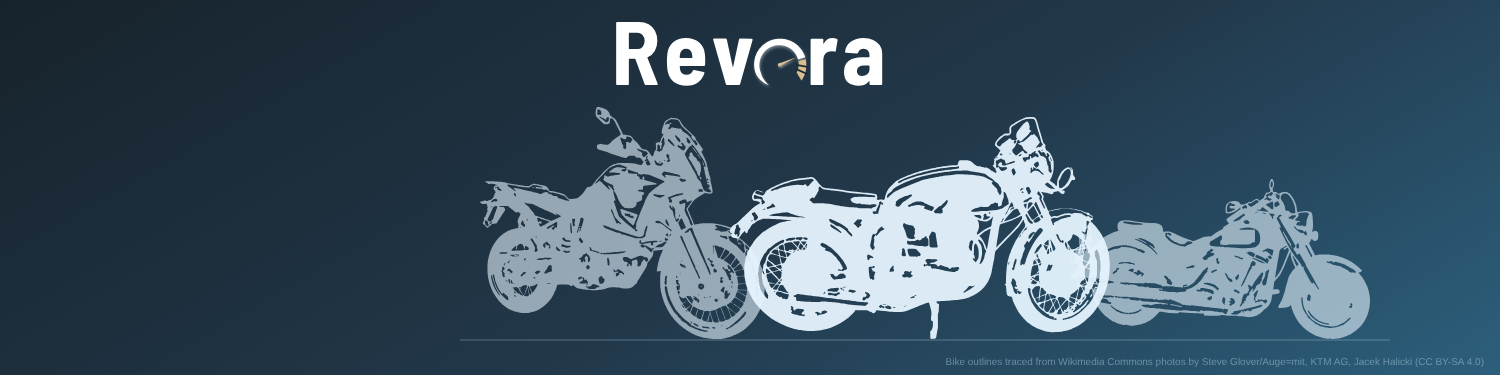
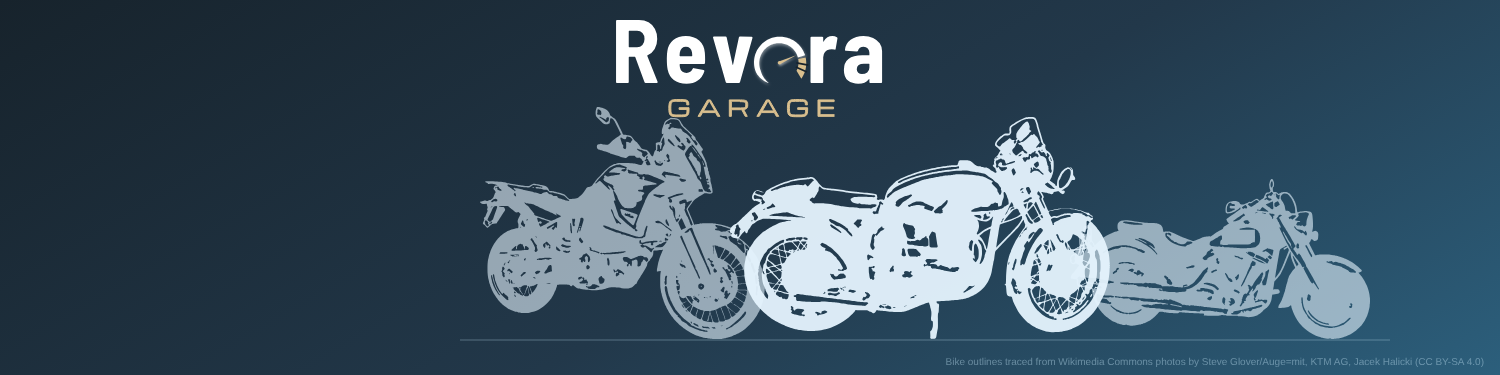
Final Revora Garage wordmarks (light B5, dark C7) and header with dark wordmark
Claude-Session: https://claude.ai/code/session_01RVtjem8LBuVXJwWPDEqVFd

Changed region(s): [[0.4293, 0.088, 0.5827, 0.2347], [0.4293, 0.264, 0.552, 0.3227], [0.3987, 0.0293, 0.4293, 0.088]]

diff --git a/img/brand/header-source.html b/img/brand/header-source.html
@@ -1,7 +1,7 @@
 <html><head><style>
 body{margin:0}
 #h{width:1500px;height:375px;position:relative;overflow:hidden;background:linear-gradient(150deg,#17232C 0,#22384A 55%,#2C5F7C 100%);font-family:Arial,sans-serif}
-#word{position:absolute;top:16px;left:50%;transform:translateX(-50%);height:76px}
+#word{position:absolute;top:14px;left:50%;transform:translateX(-50%);height:108px}
 .s{position:absolute;bottom:36px;filter:invert(1) brightness(.9) sepia(.25) hue-rotate(160deg)}
 .a{left:480px;width:285px;opacity:.6}
 .c{left:730px;width:380px;opacity:.95;z-index:2}
@@ -9,7 +9,7 @@ body{margin:0}
 #line{position:absolute;left:460px;right:110px;bottom:34px;height:2px;background:rgba(185,217,235,.18)}
 #cr{position:absolute;right:16px;bottom:8px;font-size:10px;color:rgba(185,217,235,.45)}
 </style></head><body><div id="h">
-<img id="word" src="../revora-word-white.svg">
+<img id="word" src="../revora-garage-dark.svg">
 <img class="s a" src="../sil/bike-adventure.svg"><img class="s c" src="../sil/bike-cafe.svg"><img class="s r" src="../sil/bike-cruiser.svg">
 <div id="line"></div>
 <div id="cr">Bike outlines traced from Wikimedia Commons photos by Steve Glover/Auge=mit, KTM AG, Jacek Halicki (CC BY-SA 4.0)</div></div></body></html>
